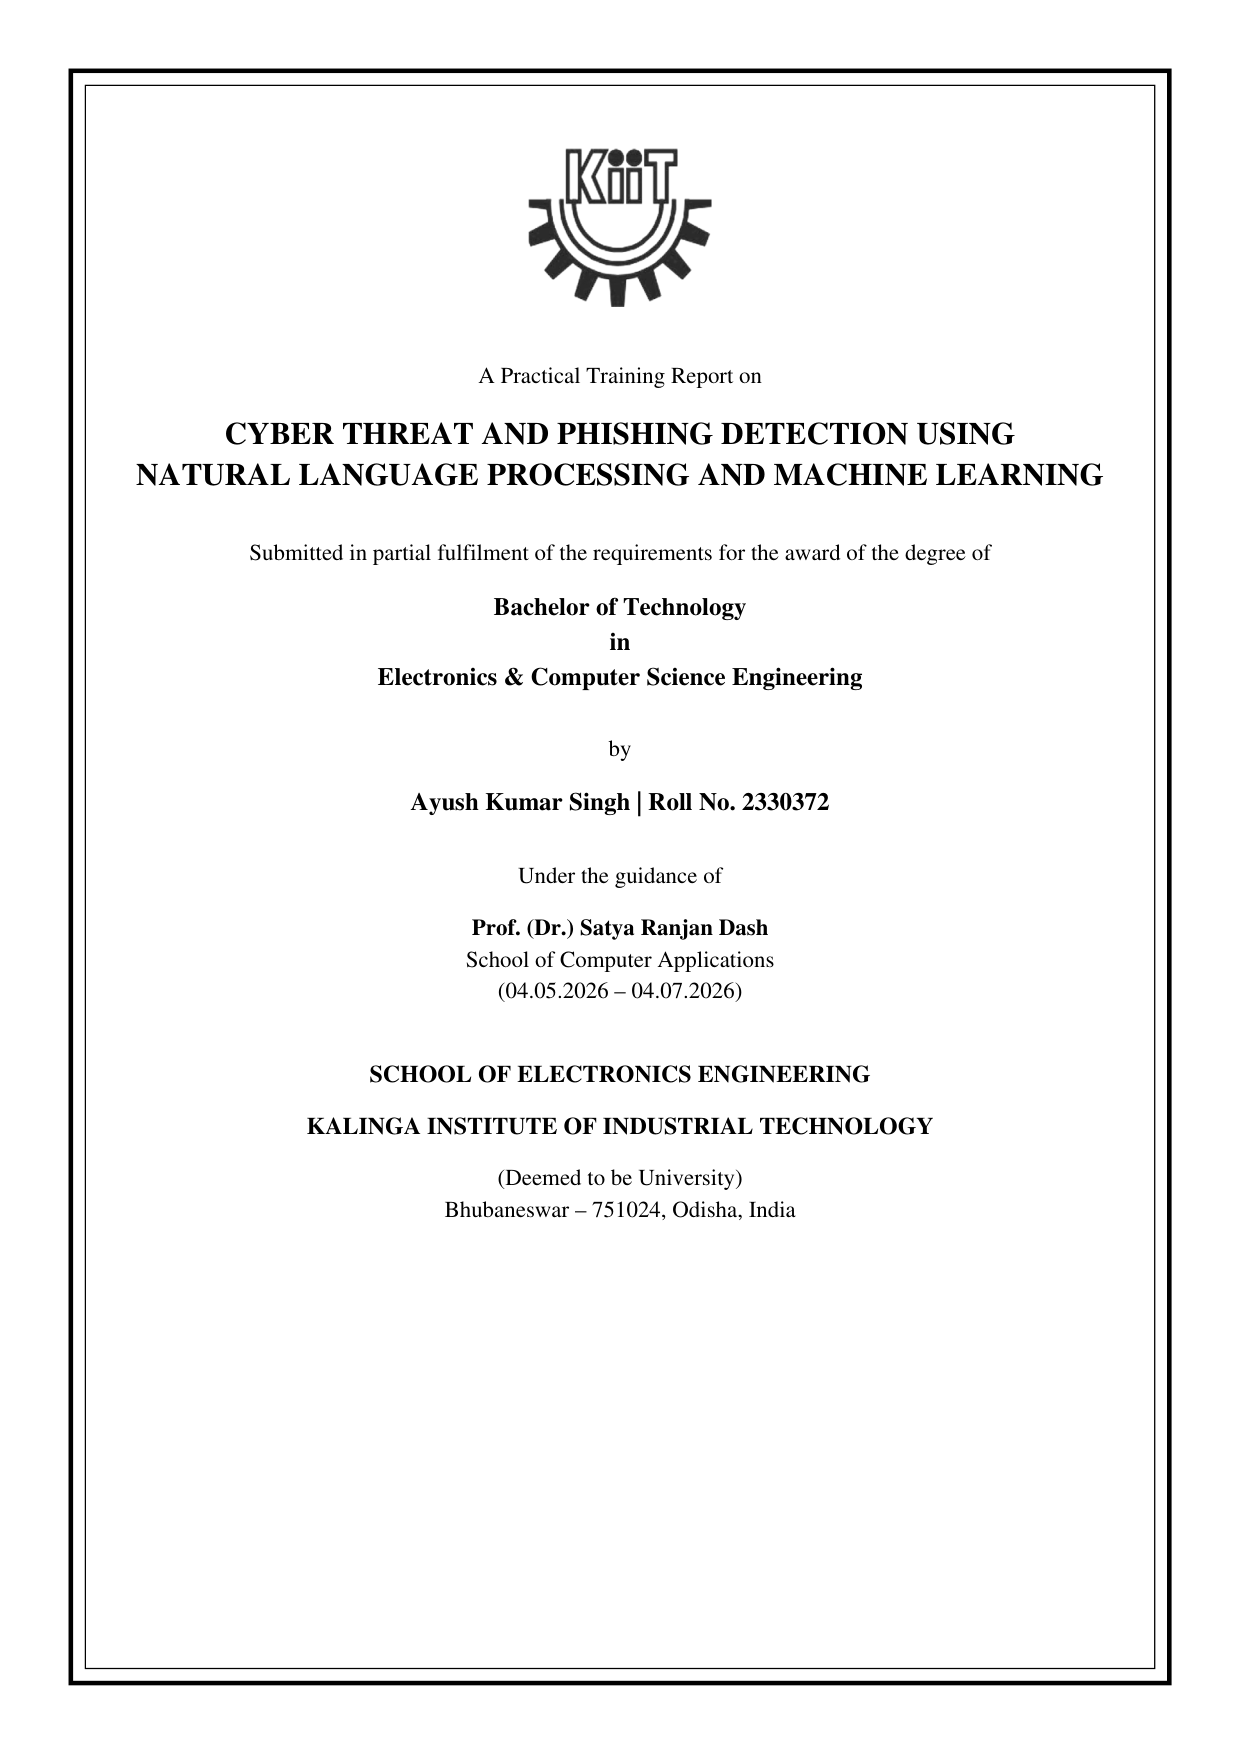
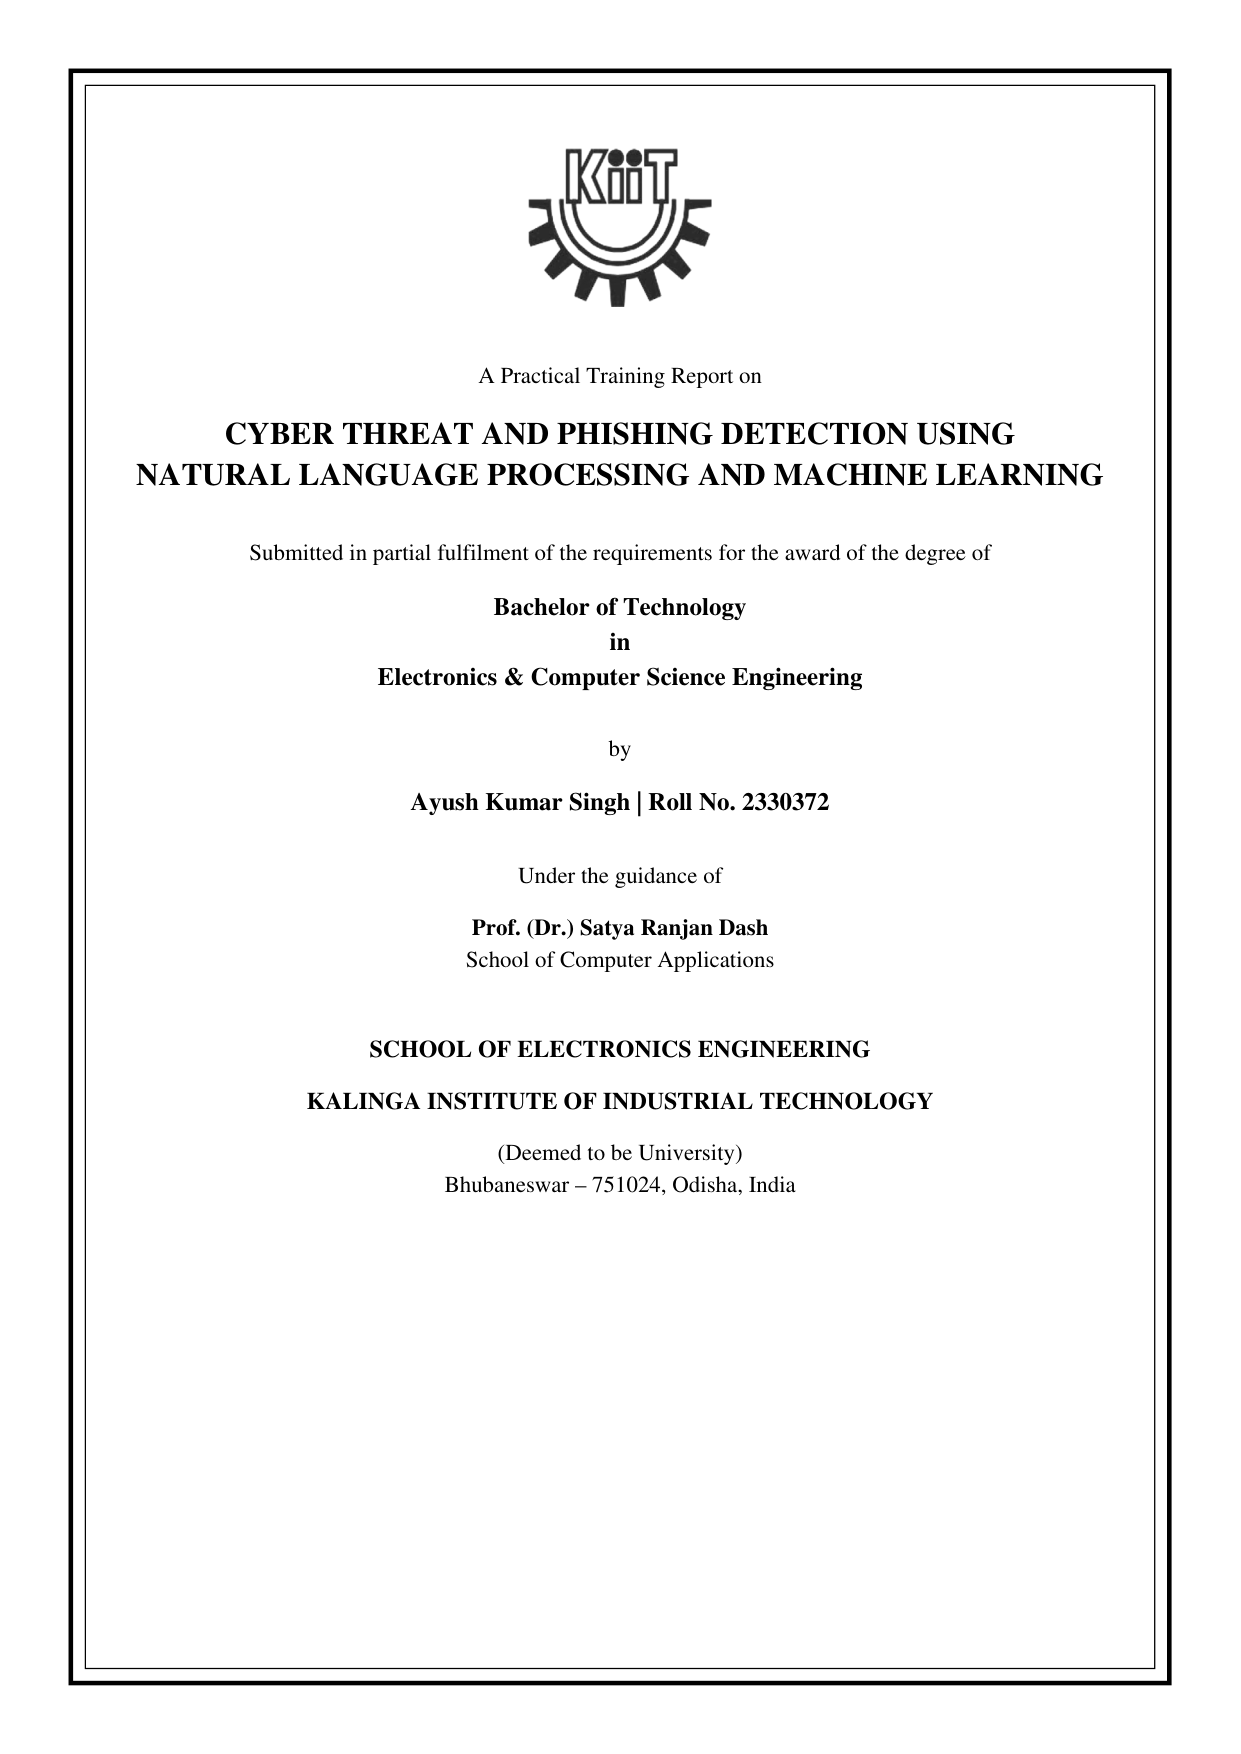
fix: remove date from cover mentor line and streamline page 15 references to 5 core citations

Changed region(s): [[0.245, 0.5542, 0.7655, 0.7081]]

diff --git a/report/build_reference_matching_pdf.py b/report/build_reference_matching_pdf.py
@@ -187,8 +187,9 @@ def build_pdf():
     story.append(Spacer(1, 10))
 
     story.append(Paragraph("Under the guidance of", cover_sub))
-    story.append(Paragraph("<b>Prof. (Dr.) Satya Ranjan Dash</b><br/>School of Computer Applications<br/>(04.05.2026 – 04.07.2026)", ParagraphStyle('CoverGuide', parent=cover_sub, fontSize=11, leading=15)))
-    story.append(Spacer(1, 15))
+    # Removed the date parenthesis as requested by user
+    story.append(Paragraph("<b>Prof. (Dr.) Satya Ranjan Dash</b><br/>School of Computer Applications", ParagraphStyle('CoverGuide', parent=cover_sub, fontSize=11, leading=15)))
+    story.append(Spacer(1, 18))
 
     story.append(Paragraph("<b>SCHOOL OF ELECTRONICS ENGINEERING</b>", ParagraphStyle('CoverSch', parent=cover_sub, fontSize=11.5, leading=15, fontName='Times-Bold')))
     story.append(Paragraph("<b>KALINGA INSTITUTE OF INDUSTRIAL TECHNOLOGY</b>", ParagraphStyle('CoverInst', parent=cover_sub, fontSize=11.5, leading=15, fontName='Times-Bold')))
@@ -802,35 +803,50 @@ def build_pdf():
     story.append(PageBreak())
 
     # =========================================================================
-    # PAGE 15: REFERENCES
+    # PAGE 15: REFERENCES (Clean, concise 5 core references as requested)
     # =========================================================================
     story.append(Paragraph("REFERENCES", page_head))
     story.append(hr())
     
     story.append(Paragraph(
-        "The following technical standards, machine learning textbooks, cybersecurity frameworks and research papers were consulted "
+        "The following core technical standards, machine learning publications, and project resources were consulted "
         "during the practical training and the preparation of this report:",
         body_text
     ))
-    story.append(Spacer(1, 6))
+    story.append(Spacer(1, 14))
 
-    refs = [
-        "[1] Pedregosa, F., et al.: Scikit-learn: Machine Learning in Python, Journal of Machine Learning Research (JMLR), vol. 12, pp. 2825–2830, 2011 (supervised classification pipelines, Random Forest, Multinomial Naive Bayes, TF-IDF vectorizer).",
-        "[2] Breiman, L.: Random Forests, Machine Learning, vol. 45, no. 1, pp. 5–32, 2001 (ensemble decision tree aggregation, bootstrap bagging, Gini impurity splitting, out-of-bag error estimation).",
-        "[3] National Institute of Standards and Technology (NIST): Computer Security Incident Handling Guide, Special Publication 800-61 Revision 2, U.S. Department of Commerce, Washington, D.C., USA, 2012 (incident triage and social engineering handling).",
-        "[4] The MITRE Corporation: MITRE ATT&CK Framework — Enterprise Matrix Technique T1566: Phishing, MITRE Center for Threat-Informed Defense, McLean, VA, USA, 2024 (spearphishing links, attachment analysis, credential harvesting).",
-        "[5] Internet Engineering Task Force (IETF): RFC 5321 — Simple Mail Transfer Protocol; and RFC 5322 — Internet Message Format, Standards Track Specifications, Fremont, CA, USA, 2008 (electronic mail header parsing and body structure).",
-        "[6] Manning, C. D., Raghavan, P., and Schütze, H.: Introduction to Information Retrieval, Cambridge University Press, Cambridge, UK, 2008 (vector space classification, sublinear term-frequency weighting, inverse document frequency).",
-        "[7] Streamlit Inc.: Streamlit Open-Source Technical Documentation and Application Architecture Guide, Snowflake Computing, San Francisco, CA, USA, 2024 (reactive web UI architecture, real-time widget binding, data streaming).",
-        "[8] Verma, R., and Shashidhar, N.: Why Machine Learning for Phishing Detection? A Survey and Open Research Challenges, IEEE Access, vol. 8, pp. 10984–11002, 2020 (NLP feature engineering, semantic parsing, URL character heuristics).",
-        "[9] School of Electronics Engineering: Curriculum and Academic Guidelines for Practical Training, Bachelor of Technology (B.Tech in Electronics & Computer Science Engineering), KIIT Deemed to be University, Bhubaneswar, Odisha, India, 2025–2026.",
-        "[10] Singh, Ayush Kumar: Cyber Threat & Phishing Detection using Natural Language Processing and Machine Learning, GitHub Repository, School of Electronics Engineering, KIIT Deemed to be University, July 2026. Available: https://github.com/ayushkumarsinghh/cyber-threat-detector-nlp",
+    # Reduced from 10 down to 5 clean, focused references with generous spacing
+    clean_refs = [
+        (
+            "<b>[1] Scikit-Learn Framework:</b> Pedregosa, F., Varoquaux, G., Gramfort, A., Michel, V., Thirion, B., Grisel, O., "
+            "et al., “Scikit-learn: Machine Learning in Python,” <i>Journal of Machine Learning Research (JMLR)</i>, vol. 12, "
+            "pp. 2825–2830, 2011."
+        ),
+        (
+            "<b>[2] Random Forest Ensembles:</b> Breiman, Leo, “Random Forests,” <i>Machine Learning</i>, vol. 45, no. 1, "
+            "pp. 5–32, 2001."
+        ),
+        (
+            "<b>[3] NIST Incident Handling Guidelines:</b> Cichonski, P., Millar, T., Grance, T., and Scarfone, K., “Computer Security "
+            "Incident Handling Guide,” <i>NIST Special Publication 800-61 Revision 2</i>, National Institute of Standards and "
+            "Technology, U.S. Department of Commerce, 2012."
+        ),
+        (
+            "<b>[4] MITRE ATT&CK Framework:</b> The MITRE Corporation, “Enterprise Matrix — Technique T1566: Phishing,” "
+            "<i>MITRE Center for Threat-Informed Defense</i>, McLean, VA, USA, 2024. [Online]. Available: https://attack.mitre.org/techniques/T1566/"
+        ),
+        (
+            "<b>[5] Project Source Repository:</b> Singh, Ayush Kumar, “Cyber Threat & Phishing Detection using Natural Language "
+            "Processing and Machine Learning,” <i>GitHub Repository</i>, School of Electronics Engineering, KIIT Deemed to be University, "
+            "July 2026. [Online]. Available: https://github.com/ayushkumarsinghh/cyber-threat-detector-nlp"
+        ),
     ]
-    for r in refs:
-        story.append(Paragraph(r, ParagraphStyle('RefEntry', parent=body_text, fontSize=8, leading=11, spaceAfter=5)))
 
-    story.append(Spacer(1, 20))
-    story.append(HRFlowable(width="100%", thickness=1, color=colors.black, spaceAfter=8, spaceBefore=0))
+    for r in clean_refs:
+        story.append(Paragraph(r, ParagraphStyle('CleanRefEntry', parent=body_text, fontSize=9, leading=14, spaceAfter=14)))
+
+    story.append(Spacer(1, 35))
+    story.append(HRFlowable(width="100%", thickness=1, color=colors.black, spaceAfter=10, spaceBefore=0))
     story.append(Paragraph("End of Practical Training Report — School of Electronics Engineering, KIIT Deemed to be University, Bhubaneswar", body_center))
 
     doc.build(story, canvasmaker=CleanNumberedCanvas)
